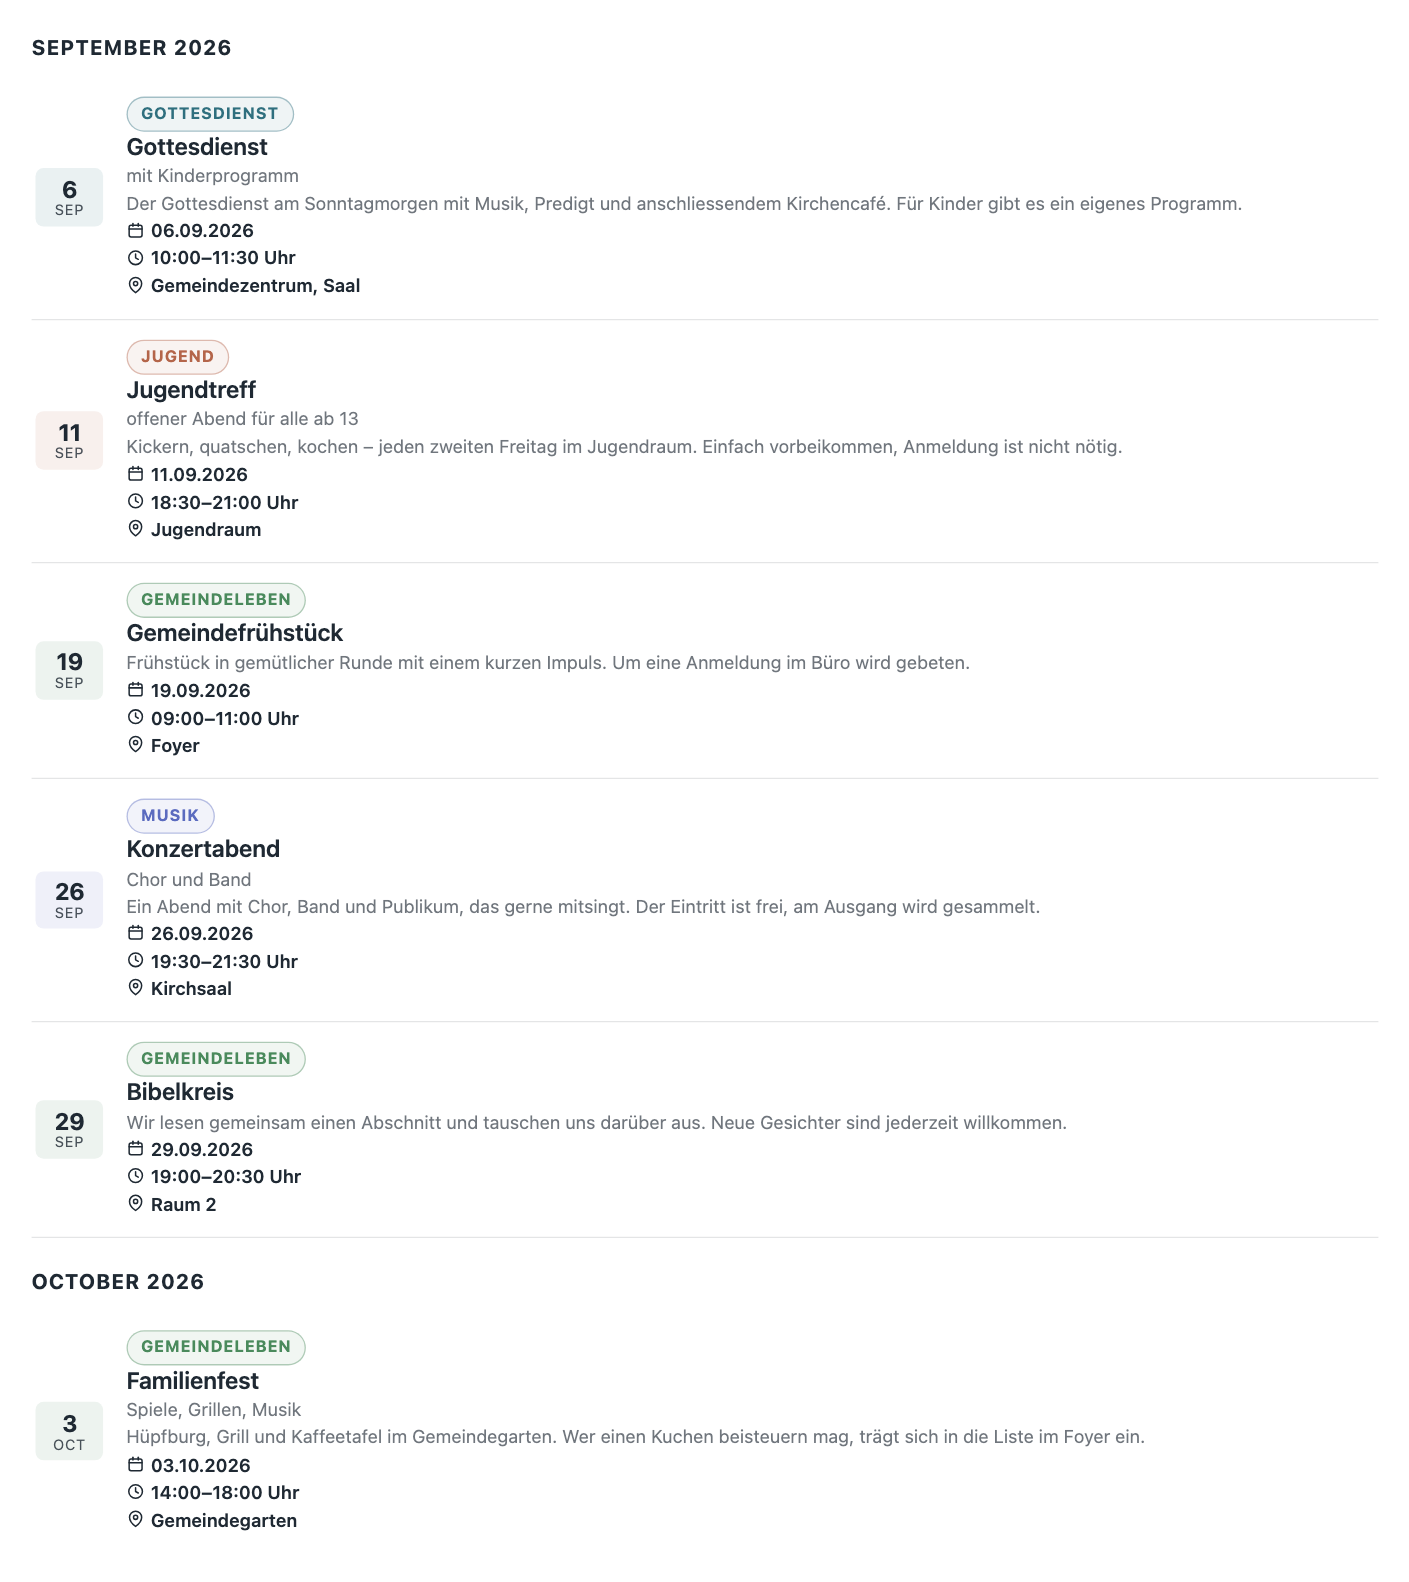
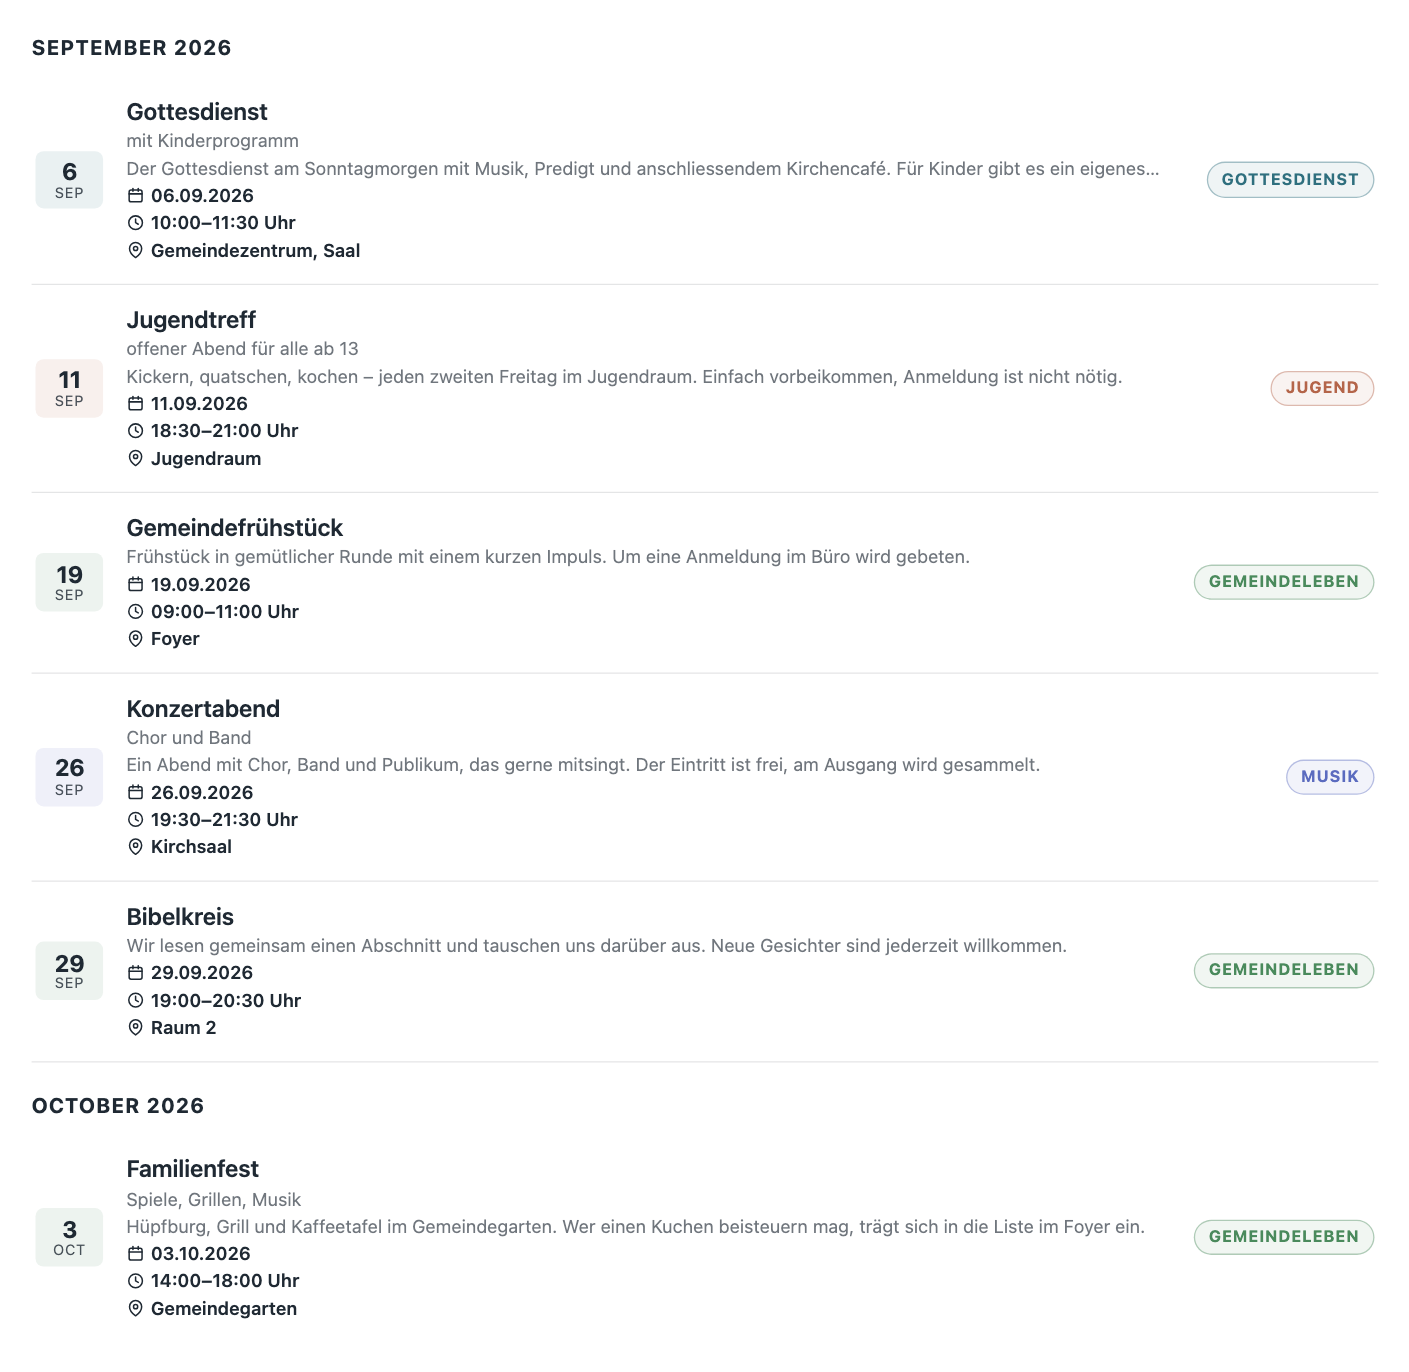
Kalendername in den Listenzeilen rechts neben dem Text
In der Liste und bei „Weitere Termine" unter „Nächster Termin" steht der
Kalendername jetzt rechts, auf Höhe des Datumschips, statt als eigene Zeile
über dem Titel. Jede Zeile wird um die Höhe der Pille flacher (Testseite bei
1440 und 1920 px: 139 statt 166 px im Schnitt).

Der Name bleibt im Textblock, der ab 32rem Zeilenbreite zu einem Grid mit
zwei Spalten wird; darunter steht er unter dem Text. Gemessen per Container-
Query an der Zeile, nicht am Fenster. Seine Position aus der Reihenfolge im
Design-Tab gilt in diesen Zeilen nicht mehr, ein Hinweis dort sagt das.
Im Markup steht er jetzt nach dem Titel.

readme.txt, TERMINE.md und die Screenshots der Liste, von „Nächster Termin"
und des Eventfinders sind nachgezogen.

diff --git a/assets/css/frontend.css b/assets/css/frontend.css
@@ -1220,6 +1220,53 @@
     }
 }
 
+/*
+ * Kalendername in den Zeilen: rechts neben dem Text, auf Hoehe des
+ * Datumschips, statt als eigene Zeile ueber dem Titel. Das spart jeder Zeile
+ * die Hoehe der Pille und nutzt die Breite, die rechts ohnehin frei blieb.
+ * Seine Position aus dem Design-Tab gilt hier deshalb nicht; die Kacheln und
+ * der grosse Termin von „Naechster Termin" folgen ihr weiter.
+ *
+ * Der Name bleibt im Textblock, der dafuer zu einem Grid mit zwei Spalten
+ * wird: links alles andere in seiner eingestellten Reihenfolge (`order` wirkt
+ * im Grid wie im Flex), rechts die Pille ueber alle Zeilen. Die 99 Zeilen sind
+ * ein "bis ganz unten" - -1 reicht nur bis zur letzten *expliziten* Zeile, und
+ * davon gibt es hier keine. Ungenutzte Zeilen sind 0 hoch.
+ *
+ * Unter 32rem Zeilenbreite gewaenne der Titel mit der Pille daneben zu wenig
+ * Platz; dort steht der Name unter allem anderen. Gemessen an der Zeile, nicht
+ * am Fenster: Eine Liste in einer schmalen Seitenspalte ist auch auf einem
+ * breiten Bildschirm schmal.
+ */
+.ctp-events__item {
+    container: ctp-row / inline-size;
+}
+
+.ctp-events__item .ctp-events__eyebrow {
+    order: 99;
+    margin-block-start: 0.35rem;
+}
+
+@container ctp-row (min-width: 32rem) {
+    .ctp-events__item .ctp-events__body {
+        display: grid;
+        grid-template-columns: minmax(0, 1fr) auto;
+        column-gap: 1rem;
+    }
+
+    .ctp-events__item .ctp-events__body > * {
+        grid-column: 1;
+    }
+
+    .ctp-events__item .ctp-events__body > .ctp-events__eyebrow {
+        grid-column: 2;
+        grid-row: 1 / span 99;
+        align-self: center;
+        margin-block-start: 0;
+        white-space: nowrap;
+    }
+}
+
 /* ---------- grid layout ---------- */
 
 /*

diff --git a/includes/Frontend/templates/partials/event-list-items.php b/includes/Frontend/templates/partials/event-list-items.php
@@ -76,11 +76,6 @@ if (!defined('ABSPATH')) {
             </span>
         <?php endif; ?>
         <span class="ctp-events__body">
-            <?php if (!in_array('calendar', $args['hidden_elements'], true) && $event['calendar_name'] !== '') : ?>
-                <span class="ctp-events__eyebrow">
-                    <?php echo esc_html($event['calendar_name']); ?>
-                </span>
-            <?php endif; ?>
             <span class="ctp-events__title">
                 <?php if ($event['calendar_name'] === '' && $event['calendar_color'] !== '') : ?>
                     <span class="ctp-events__color-dot" aria-hidden="true"></span>
@@ -129,6 +124,20 @@ if (!defined('ABSPATH')) {
             <?php endif; ?>
             <?php // phpcs:ignore WordPress.Security.EscapeOutput.OutputNotEscaped -- CardDesign::renderSeparators() builds its own escaped markup, same trust boundary as $args['design_style'] above. ?>
             <?php echo $args['design_separators']; ?>
+            <?php
+            /*
+             * Der Kalendername steht in den Zeilen nicht an seiner Position aus dem
+             * Design-Tab, sondern rechts neben dem Text (auf schmalen Zeilen unter
+             * ihm, siehe .ctp-events__item .ctp-events__eyebrow in frontend.css).
+             * Deshalb steht er im Markup am Ende: Vorleser nennen erst den Titel,
+             * dann den Kalender - dieselbe Folge, die man auf dem Bildschirm liest.
+             */
+            ?>
+            <?php if (!in_array('calendar', $args['hidden_elements'], true) && $event['calendar_name'] !== '') : ?>
+                <span class="ctp-events__eyebrow">
+                    <?php echo esc_html($event['calendar_name']); ?>
+                </span>
+            <?php endif; ?>
         </span>
         <?php if ($args['click_behavior'] === 'popup') : ?>
             <?php // phpcs:ignore WordPress.Security.EscapeOutput.OutputNotEscaped -- detail_html is this same event's fields already individually escaped by partials/event-detail-content.php, just pre-rendered server-side (see EventListRenderer::withCalendarMeta()). ?>

diff --git a/includes/Frontend/templates/event-upcoming.php b/includes/Frontend/templates/event-upcoming.php
@@ -190,11 +190,6 @@ $heroHasMedia = $hero !== null
                             </span>
                         <?php endif; ?>
                         <span class="ctp-events__body">
-                            <?php if (!in_array('calendar', $args['hidden_elements'], true) && $event['calendar_name'] !== '') : ?>
-                                <span class="ctp-events__eyebrow">
-                                    <?php echo esc_html($event['calendar_name']); ?>
-                                </span>
-                            <?php endif; ?>
                             <span class="ctp-events__title">
                                 <?php if ($event['calendar_name'] === '' && $event['calendar_color'] !== '') : ?>
                                     <span class="ctp-events__color-dot" aria-hidden="true"></span>
@@ -240,6 +235,12 @@ $heroHasMedia = $hero !== null
                             <?php endif; ?>
                             <?php // phpcs:ignore WordPress.Security.EscapeOutput.OutputNotEscaped -- CardDesign::renderSeparators() builds its own escaped markup, same trust boundary as $args['design_style'] above. ?>
                             <?php echo $args['design_separators']; ?>
+                            <?php // Am Ende und nicht vor dem Titel, siehe partials/event-list-items.php. ?>
+                            <?php if (!in_array('calendar', $args['hidden_elements'], true) && $event['calendar_name'] !== '') : ?>
+                                <span class="ctp-events__eyebrow">
+                                    <?php echo esc_html($event['calendar_name']); ?>
+                                </span>
+                            <?php endif; ?>
                         </span>
                         <?php if ($args['click_behavior'] === 'popup') : ?>
                             <?php // phpcs:ignore WordPress.Security.EscapeOutput.OutputNotEscaped -- detail_html is this same event's fields already individually escaped by partials/event-detail-content.php, just pre-rendered server-side (see EventListRenderer::withCalendarMeta()). ?>

diff --git a/includes/Admin/SettingsPage.php b/includes/Admin/SettingsPage.php
@@ -1620,6 +1620,7 @@ final class SettingsPage
         <ul class="description ctp-hint-list">
             <li><?php esc_html_e('Das Bild steht über oder unter dem Text, nie dazwischen.', 'churchtools-plugin'); ?></li>
             <li><?php esc_html_e('Trennlinien und Abstände lassen sich beliebig oft einfügen und per „×“ wieder entfernen.', 'churchtools-plugin'); ?></li>
+            <li><?php esc_html_e('In der Liste und bei „Weitere Termine“ steht der Kalendername immer rechts neben dem Text, auf schmalen Bildschirmen darunter.', 'churchtools-plugin'); ?></li>
         </ul>
         <?php
     }

diff --git a/docs/TERMINE.md b/docs/TERMINE.md
@@ -14,7 +14,7 @@ Alle drei benutzen denselben Unterbau und können dasselbe:
 
 | Ansicht | `layout` | Beschreibung |
 | --- | --- | --- |
-| **Liste** | `list` | Kompakte Zeilen mit Datums-Chip, Kategorie, Titel, Zeit und Ort; mit `month_dividers="1"` nach Monaten gruppiert. |
+| **Liste** | `list` | Kompakte Zeilen mit Datums-Chip, Titel, Zeit und Ort, die Kategorie rechts daneben; mit `month_dividers="1"` nach Monaten gruppiert. |
 | **Raster** | `grid` | Bild, Datums-Badge und ein kurzer Auszug, Spaltenzahl einstellbar. Termine ohne eigenes Bild bekommen eine Fläche in der Farbe ihres Kalenders. |
 | **Nächster Termin** | `upcoming` | Eine große Kachel für den nächsten Termin, darunter die folgenden in Kurzform. |
 
